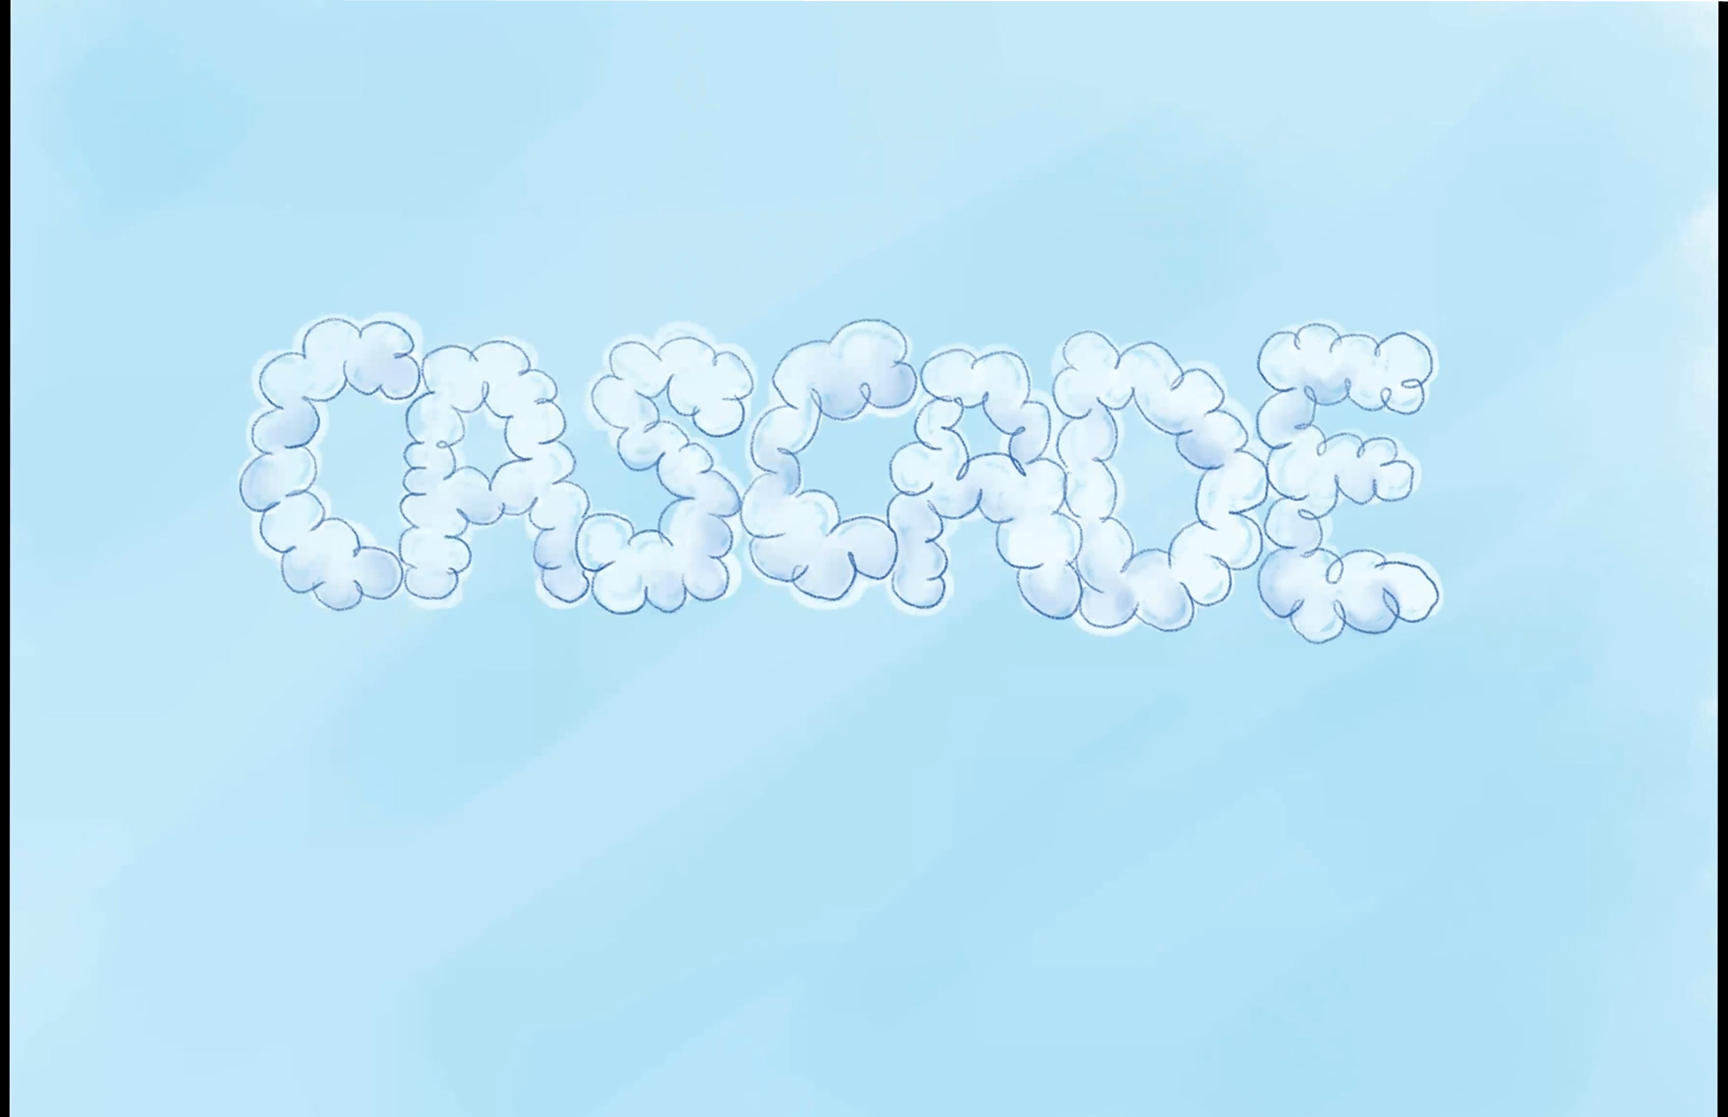
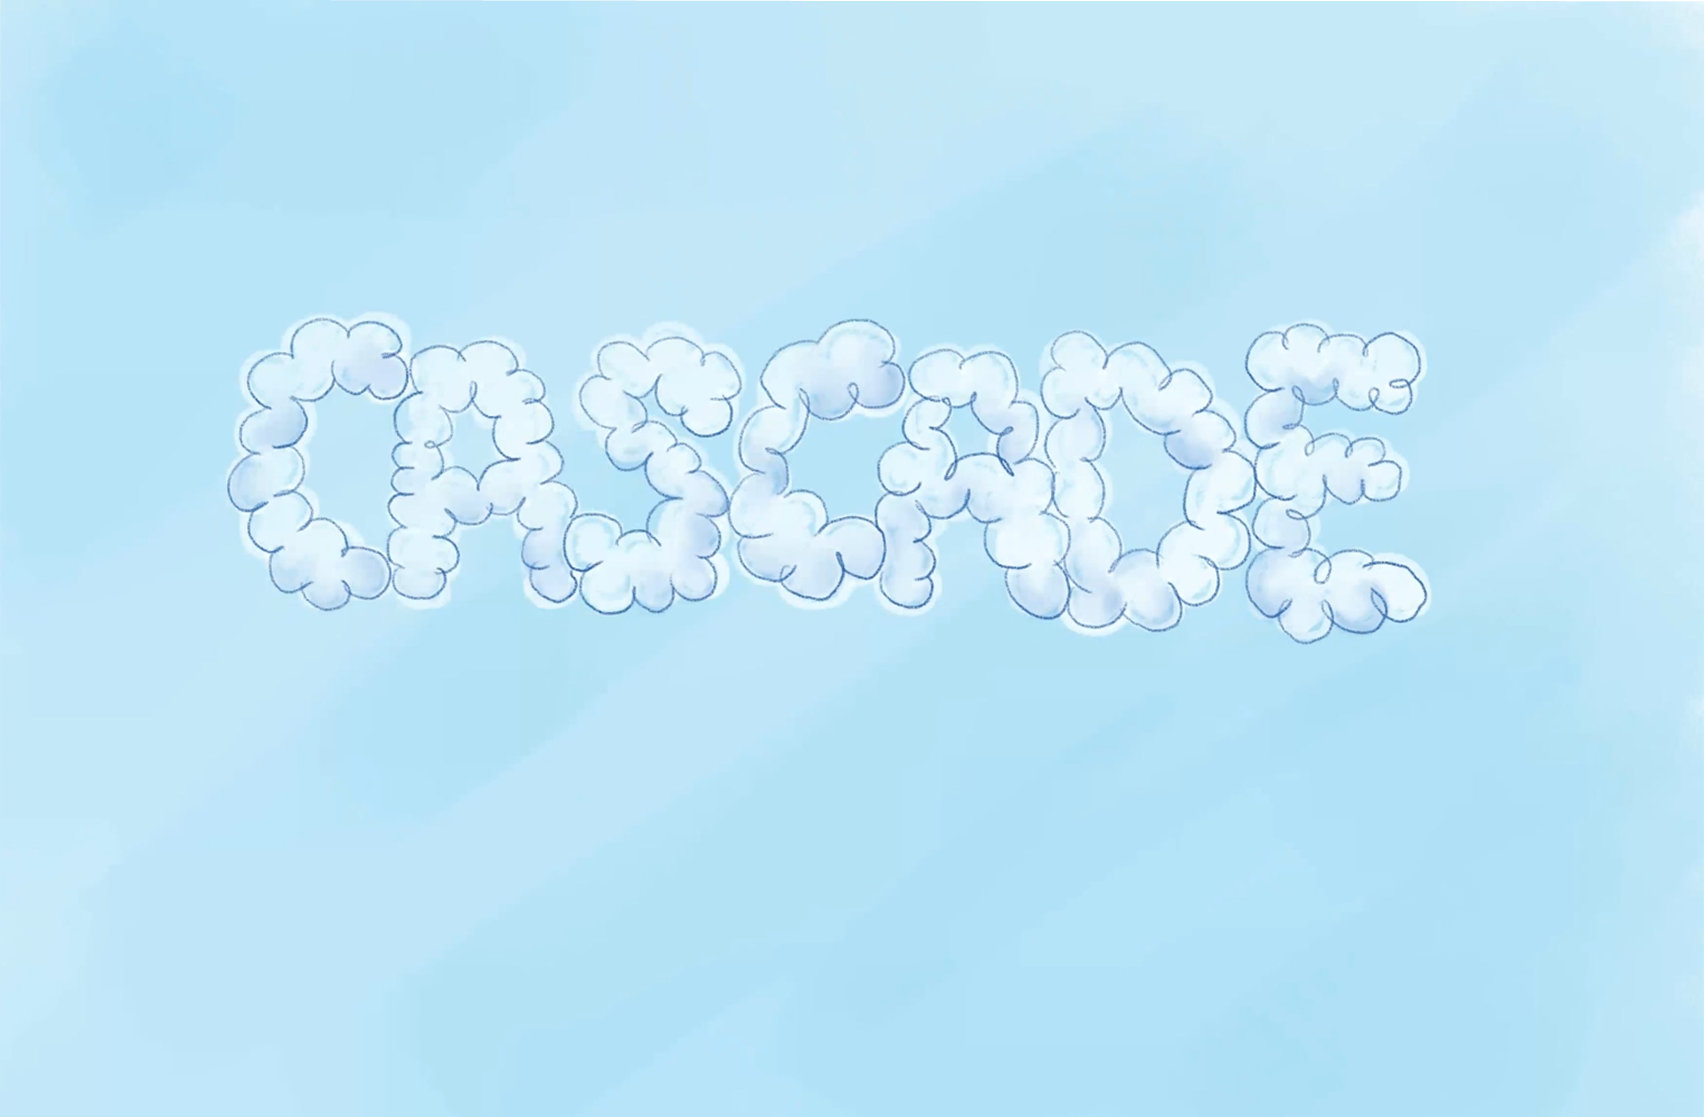
Added login section and working on sky blend

diff --git a/client/src/pages/Login.jsx b/client/src/pages/Login.jsx
@@ -1,0 +1,61 @@
+import { useState } from "react";
+import "./Login.css";
+import background from "../assets/login-bg.png";
+import sign from "../assets/wood-sign.png";
+
+function Login() {
+  const [name, setName] = useState("");
+  const [signupEmail, setSignupEmail] = useState("");
+  const [loginEmail, setLoginEmail] = useState("");
+  const [message, setMessage] = useState("");
+
+  function handleSignUp(e) {
+    e.preventDefault();
+    setMessage(`Signing up ${name} (${signupEmail})`);
+  }
+
+  function handleLogin(e) {
+    e.preventDefault();
+    setMessage(`Logging in ${loginEmail}`);
+  }
+
+  return (
+    <div className="login" style={{ backgroundImage: `url(${background})` }}>
+      <div className="login-sign" style={{ backgroundImage: `url(${sign})` }}>
+        <form className="login-form" onSubmit={handleSignUp}>
+          <h2>SIGN UP</h2>
+          <input
+            placeholder="Name"
+            value={name}
+            onChange={(e) => setName(e.target.value)}
+            required
+          />
+          <input
+            type="email"
+            placeholder="Email"
+            value={signupEmail}
+            onChange={(e) => setSignupEmail(e.target.value)}
+            required
+          />
+          <button type="submit">Sign Up</button>
+        </form>
+
+        <form className="login-form" onSubmit={handleLogin}>
+          <h2>LOG IN</h2>
+          <input
+            type="email"
+            placeholder="Email"
+            value={loginEmail}
+            onChange={(e) => setLoginEmail(e.target.value)}
+            required
+          />
+          <button type="submit">Log In</button>
+        </form>
+
+        {message && <p className="login-message">{message}</p>}
+      </div>
+    </div>
+  );
+}
+
+export default Login;

diff --git a/client/src/pages/Login.css b/client/src/pages/Login.css
@@ -1,0 +1,71 @@
+.login {
+  position: relative;
+  width: 100%;
+  height: 100vh;
+  background-size: cover;
+  background-position: center;
+  overflow: hidden;
+  margin-top: -20vh;
+  mask-image: linear-gradient(to top, black 80%, transparent 100%);
+}
+
+.login-sign {
+  position: absolute;
+  inset: 0;
+  background-size: cover;
+  background-position: center;
+  display: grid;
+  grid-template-columns: 1fr 1fr;
+  column-gap: 6vw;
+  align-content: start;
+  padding: 32vh 22vw 0;
+}
+
+.login-form {
+  display: flex;
+  flex-direction: column;
+  align-items: center;
+  gap: 20px;
+}
+
+.login-form h2 {
+  color: white;
+  font-size: 2rem;
+  font-weight: normal;
+  margin-bottom: 40px;
+}
+
+.login-form input {
+  width: 100%;
+  max-width: 320px;
+  padding: 10px 16px;
+  border: none;
+  border-radius: 8px;
+  background: rgba(60, 30, 15, 0.6);
+  color: #f3e6dc;
+  font-size: 1rem;
+}
+
+.login-form input::placeholder {
+  color: rgba(243, 230, 220, 0.6);
+}
+
+.login-form button {
+  padding: 10px 22px;
+  border: none;
+  border-radius: 999px;
+  background: #d8c8c2;
+  font-size: 1rem;
+  cursor: pointer;
+}
+
+.login-form button:hover {
+  background: white;
+}
+
+.login-message {
+  grid-column: 1 / -1;
+  text-align: center;
+  color: white;
+  margin-top: 30px;
+}

diff --git a/client/src/pages/Landing.css b/client/src/pages/Landing.css
@@ -1,10 +1,11 @@
 .landing {
   position: relative;
-  width: 100vw;
+  width: 100%;
   height: 100vh;
   background-size: cover;
   background-position: center;
   overflow: hidden;
+  mask-image: linear-gradient(to bottom, black 80%, transparent 100%);
 }
 
 .landing .blimp {

diff --git a/client/src/App.jsx b/client/src/App.jsx
@@ -1,7 +1,13 @@
 import Landing from "./pages/Landing";
+import Login from "./pages/Login";
 
 function App() {
-  return <Landing />;
+  return (
+    <div className="sky">
+      <Landing />
+      <Login />
+    </div>
+  );
 }
 
 export default App;

diff --git a/client/src/index.css b/client/src/index.css
@@ -3,3 +3,7 @@
   padding: 0;
   box-sizing: border-box;
 }
+
+.sky {
+  background: #bce5f7;
+}
